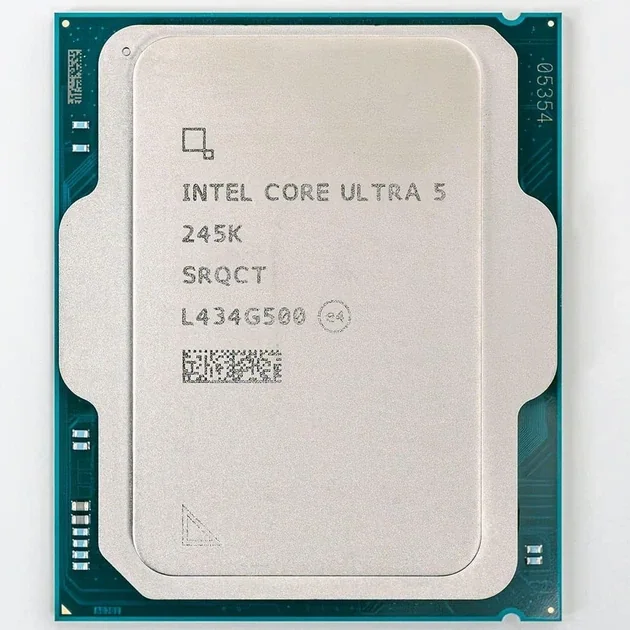
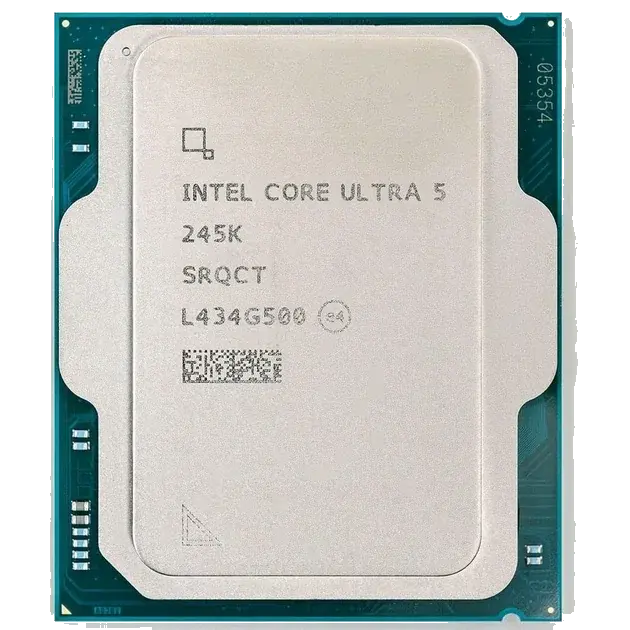
Normalize processor photos to transparent chip-only standard

Changed region(s): [[0.0905, 0.0, 1.0, 1.0], [0.0302, 0.0302, 0.2413, 1.0]]

diff --git a/PROJECT_STATUS.md b/PROJECT_STATUS.md
@@ -764,3 +764,17 @@ After owner review, continue with photos for other categories. Laptops after com
 - Визуально проверены превью на контрастном фоне; активные изображения каталога и галерей загружаются.
 - Названия, цены, характеристики, ID, SKU, фильтры, сортировка, карточки, другие категории и price.csv не изменялись.
 - Отдельный мобильный viewport в текущем браузере недоступен; CSS и адаптивная разметка не менялись.
+
+## Единый стандарт прозрачных фотографий процессоров (2026-11-02)
+
+Проверены все 17 товаров категории «Процессоры» на `rgw_page_processors.html` и их активные изображения `images/products/cpu-*/main.webp`. 16 существующих изображений пересохранены в WebP с настоящим альфа-каналом: удалён внешний белый/серый фон, сохранены маркировка, пропорции, исходный холст и поля вокруг процессора. Прямоугольные подложки, растягивание и обрезка не добавлялись.
+
+Для `cpu-008` (Core Ultra 5 245KF), `cpu-009` (Core Ultra 7 265K) и `cpu-017` (Core Ultra 5 225F) коробочные композиции заменены на точные снимки самих процессоров. Для `cpu-010` (Core Ultra 9 285K) и `cpu-011` (Core i3-9100F) использованы чистые снимки точных моделей без посторонней отметки. `cpu-005` (каталожное название «I3-3260») оставлен с заглушкой: подтверждённого изображения именно этой модели не найдено, а найденный Intel Pentium G3260 не является допустимой заменой.
+
+### Проверки этапа
+
+- Проверены 17/17 товаров и пути изображений в `products.json`, `rgw_page_processors.html` и `product.html?id=...`.
+- Визуально проверены все 16 WebP на белом, сером и тёмном фоне: углы прозрачны, коробок и цветных прямоугольных фонов нет.
+- Файлы проверены на непустое содержимое, формат WebP и альфа-канал; пути сохранены без изменений.
+- Названия, цены, характеристики, ID, SKU, наличие, фильтры, сортировка, JavaScript, карточки, другие категории и `price.csv` не изменялись.
+- Отдельный мобильный viewport в текущем браузере недоступен; адаптивная разметка и размеры карточек не менялись.
